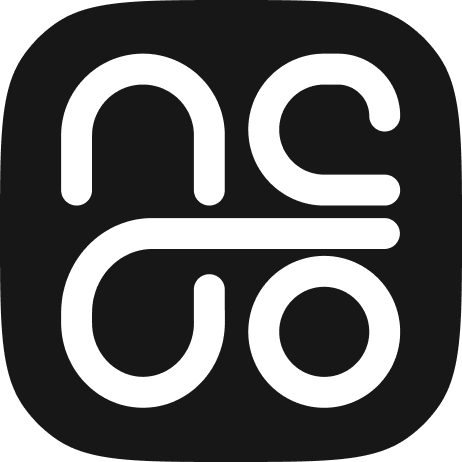
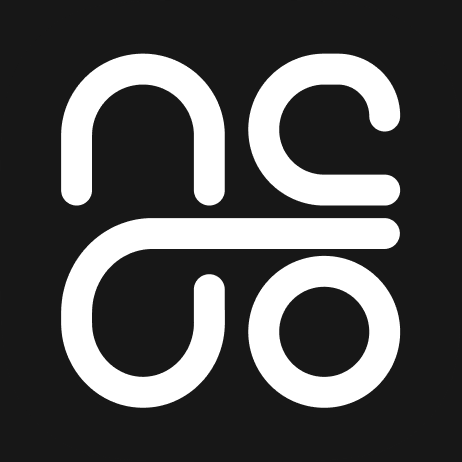
feat: simplify the ChatGPT plugin listing and leave the Clay skill out of its ZIP [NEO-2795] (#46)
* feat: shorten the plugin listing description and sharpen its starter prompts [NEO-2795]

Claude-Session: https://claude.ai/code/session_01CD6BZQ3YBMmcZT4N86XfcU

* fix: use the platform's primary blue for the plugin listing brand color [NEO-2795]

Claude-Session: https://claude.ai/code/session_01CD6BZQ3YBMmcZT4N86XfcU

* feat: one-line listing description, full-bleed logo, and no Clay skill in the ChatGPT ZIP [NEO-2795]

Claude-Session: https://claude.ai/code/session_01CD6BZQ3YBMmcZT4N86XfcU

---------

diff --git a/agents.md b/agents.md
@@ -13,3 +13,11 @@ When you change the plugin, increase the version in `.claude-plugin/plugin.json`
 - Claude Code reads `.mcp.json`, and Codex reads it through `mcpServers` in `.codex-plugin/plugin.json`, which must be the path `./.mcp.json` for OpenAI's plugin review. Neither sends a credential: the server answers 401, and the agent signs the person in to NeoSigma through Auth0 (OAuth). An `Authorization` header in either file stops that sign-in.
 - Cursor also reads `.mcp.json` from the plugin root, and signs the person in through OAuth in the same way. Do not set `mcpServers` in `.cursor-plugin/plugin.json`: it replaces that discovery.
 - Do not add a root `plugin.json` or `mcp.json` (Agent Plugins format). Codex prefers that format, and it removes the `Authorization` header from plugin MCP servers.
+
+## ChatGPT Plugin ZIP
+
+The ZIP for the ChatGPT plugin directory excludes `skills/clay-plugin-eval`, because that skill is for one client. Build it from the repository root:
+
+```bash
+zip -qrX neosigma-codex-plugin-<version>.zip .codex-plugin .mcp.json skills assets -x 'skills/clay-plugin-eval/*' '*/__pycache__/*' '*.pyc' '.DS_Store'
+```
